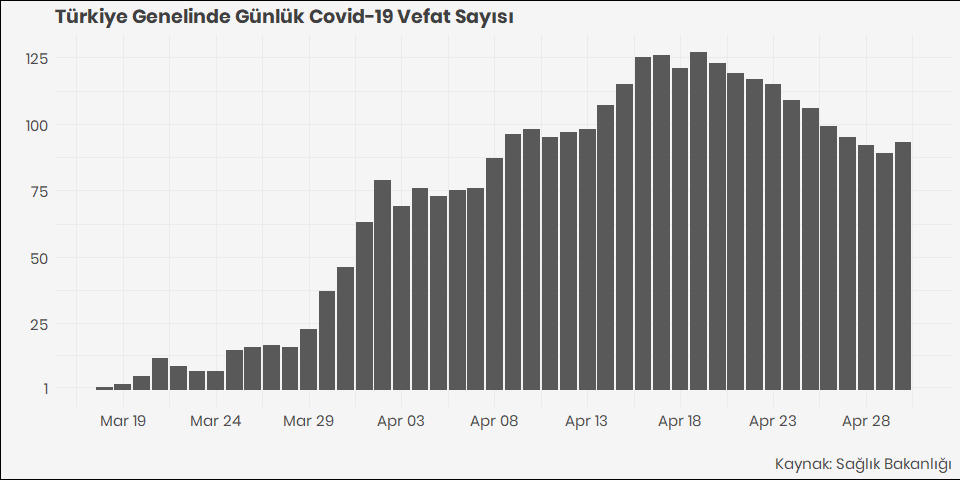
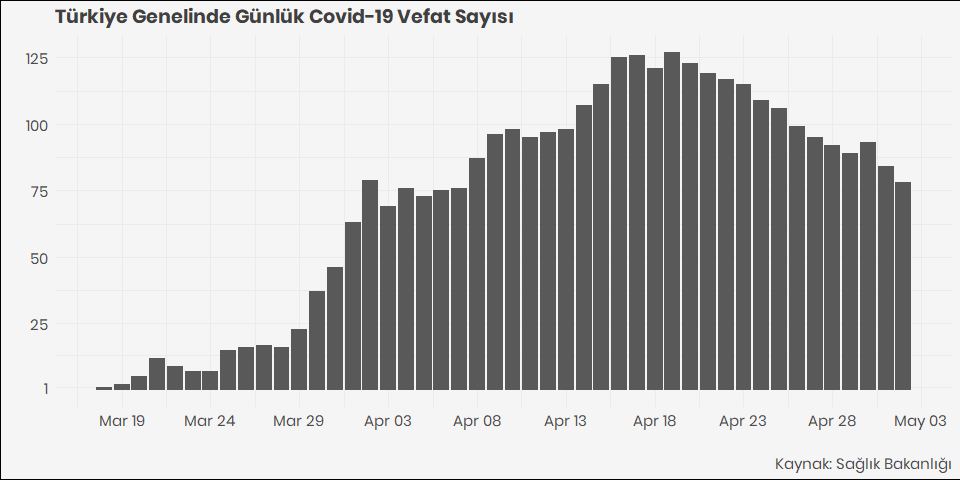
update_02_05

diff --git a/README.md b/README.md
@@ -100,122 +100,6 @@ gunluk\_vaka
 
 <td style="text-align:left;">
 
-11.04.2020
-
-</td>
-
-<td style="text-align:right;">
-
-340380
-
-</td>
-
-<td style="text-align:right;">
-
-52167
-
-</td>
-
-<td style="text-align:right;">
-
-1101
-
-</td>
-
-<td style="text-align:right;">
-
-1626
-
-</td>
-
-<td style="text-align:right;">
-
-1021
-
-</td>
-
-<td style="text-align:right;">
-
-2965
-
-</td>
-
-<td style="text-align:right;">
-
-95
-
-</td>
-
-<td style="text-align:right;">
-
-5138
-
-</td>
-
-</tr>
-
-<tr>
-
-<td style="text-align:left;">
-
-12.04.2020
-
-</td>
-
-<td style="text-align:right;">
-
-376100
-
-</td>
-
-<td style="text-align:right;">
-
-56956
-
-</td>
-
-<td style="text-align:right;">
-
-1198
-
-</td>
-
-<td style="text-align:right;">
-
-1665
-
-</td>
-
-<td style="text-align:right;">
-
-978
-
-</td>
-
-<td style="text-align:right;">
-
-3446
-
-</td>
-
-<td style="text-align:right;">
-
-97
-
-</td>
-
-<td style="text-align:right;">
-
-4789
-
-</td>
-
-</tr>
-
-<tr>
-
-<td style="text-align:left;">
-
 13.04.2020
 
 </td>
@@ -1251,6 +1135,122 @@ gunluk\_vaka
 <td style="text-align:right;">
 
 2615
+
+</td>
+
+</tr>
+
+<tr>
+
+<td style="text-align:left;">
+
+01.05.2020
+
+</td>
+
+<td style="text-align:right;">
+
+1075048
+
+</td>
+
+<td style="text-align:right;">
+
+122392
+
+</td>
+
+<td style="text-align:right;">
+
+3258
+
+</td>
+
+<td style="text-align:right;">
+
+1480
+
+</td>
+
+<td style="text-align:right;">
+
+818
+
+</td>
+
+<td style="text-align:right;">
+
+53808
+
+</td>
+
+<td style="text-align:right;">
+
+84
+
+</td>
+
+<td style="text-align:right;">
+
+2188
+
+</td>
+
+</tr>
+
+<tr>
+
+<td style="text-align:left;">
+
+02.05.2020
+
+</td>
+
+<td style="text-align:right;">
+
+1111366
+
+</td>
+
+<td style="text-align:right;">
+
+124375
+
+</td>
+
+<td style="text-align:right;">
+
+3336
+
+</td>
+
+<td style="text-align:right;">
+
+1445
+
+</td>
+
+<td style="text-align:right;">
+
+778
+
+</td>
+
+<td style="text-align:right;">
+
+58259
+
+</td>
+
+<td style="text-align:right;">
+
+78
+
+</td>
+
+<td style="text-align:right;">
+
+1983
 
 </td>
 
